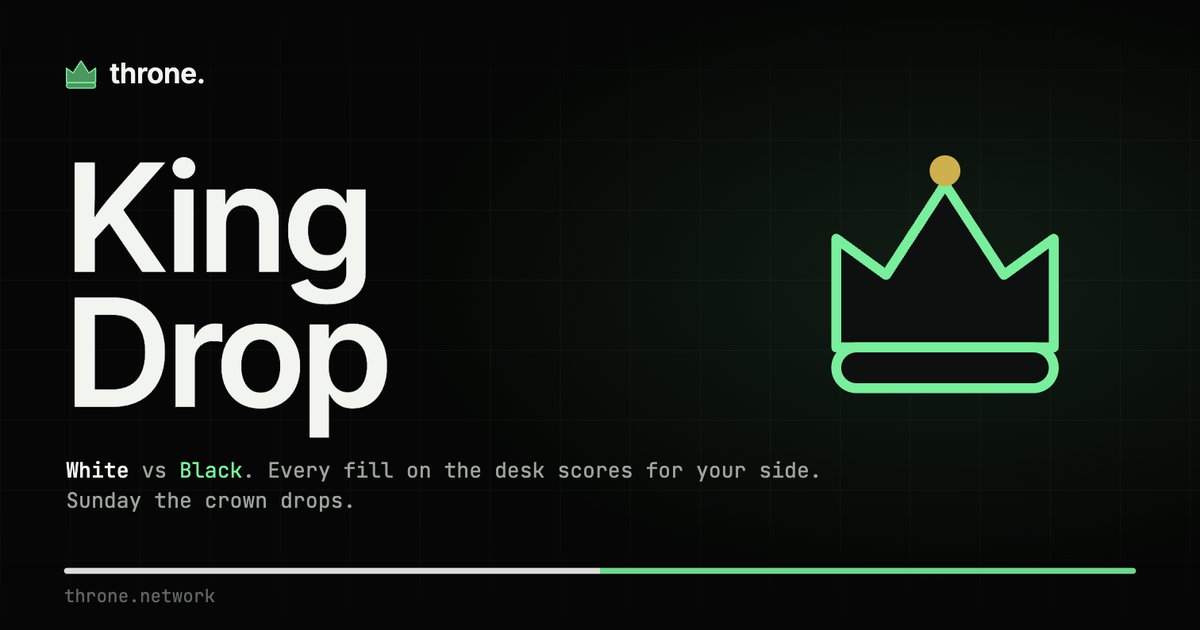
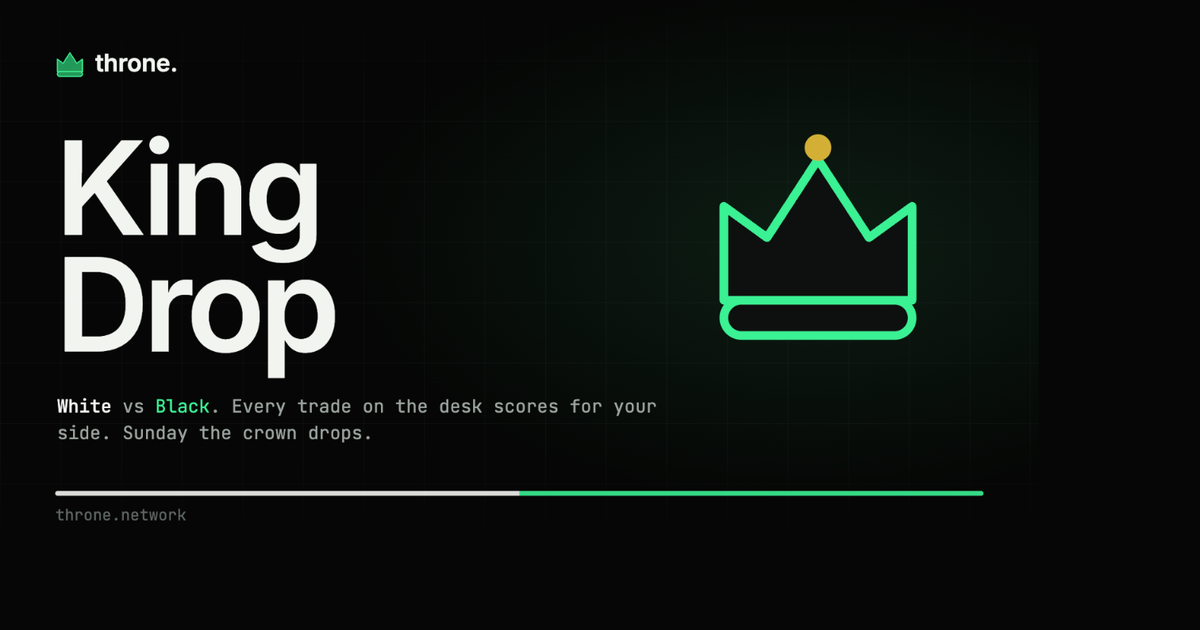
og: King Drop share image re-rendered ('every trade', not 'fill')
og.html source already said 'Every trade on the desk scores for your side'; the PNG still had the old sentence baked in. Re-rendered at 1200x630 from the live card.

diff --git a/arena/og.html b/arena/og.html
@@ -19,7 +19,7 @@ html,body{margin:0;background:#050605;overflow:hidden}
   <div class="grid"></div>
   <div class="logo"><svg width="34" height="34" viewBox="-28 -34 56 56"><path d="M-24,10 L-24,-14 L-13,-6 L0,-26 L13,-6 L24,-14 L24,10 Z" fill="#229959" stroke="#39F194" stroke-width="2" stroke-linejoin="round"/><rect x="-24" y="10" width="48" height="9" rx="4.5" fill="#229959" stroke="#39F194" stroke-width="2"/></svg>throne.</div>
     <div class="title">King<br>Drop</div>
-  <div class="sub mono"><b>White</b> vs <i>Black</i>. Every fill on the desk scores for your side. Sunday the crown drops.</div>
+  <div class="sub mono"><b>White</b> vs <i>Black</i>. Every trade on the desk scores for your side. Sunday the crown drops.</div>
   <svg class="crown" viewBox="-32 -38 64 64"><path d="M-24,10 L-24,-14 L-13,-6 L0,-26 L13,-6 L24,-14 L24,10 Z" fill="#0D100F" stroke="#39F194" stroke-width="2.2" stroke-linejoin="round"/><rect x="-24" y="10" width="48" height="9" rx="4.5" fill="#0D100F" stroke="#39F194" stroke-width="2.2"/><circle cx="0" cy="-29" r="3.4" fill="#D4AF37"/></svg>
   <div class="bar"></div>
   <div class="foot mono">throne.network</div>
